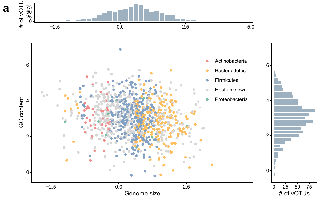
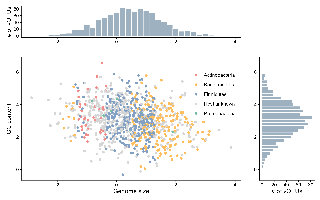
fix(scatter-hist-annot): clean public text and repair preview

diff --git a/modules/scatter-hist-annot/docs/doc-description.md b/modules/scatter-hist-annot/docs/doc-description.md
@@ -1,18 +1,16 @@
 # 分组散点直方图注释
 
-## Purpose
+用 ggplot2 + cowplot 拼出分组散点与边缘直方图。preview 由 organized.R 渲染；数据为 MASS::mvrnorm 模拟，不是论文结果。
 
-复现 KS 生信绘图课程包「021分组散点图+直方图注释」的绘图层。
+## 应用
 
-## Visual structure
+展示分组散点与边缘直方图组合。
 
-见 `preview.png` 与课程原图；未做出版级视觉审查。
+- 作为该图类型的 R 代码与布局参考。
+- 在确认前不作为论文结果或上游分析复现。
 
-## Recommended use
+## 数据
 
-本地查看该图类型的 ggplot2/R 实现；需要同类布局时可改数据后重跑 `code/organized.R`。
+脚本内 MASS::mvrnorm 模拟 1000 行两维点与五类分组，无外部文件。
 
-## Limitations
-
-- 示例数据来自课程包或脚本内模拟，不是原文分析复现。
-- 本地 Gallery 收录授权仅覆盖课程图代码与布局参考；科学结论与出版级视觉审查未做。
+仅提供绘图示例；上游分析与科学结论未验证。

diff --git a/modules/scatter-hist-annot/README.md b/modules/scatter-hist-annot/README.md
@@ -2,4 +2,20 @@
 
 用 ggplot2 + cowplot 拼出分组散点与边缘直方图。preview 由 organized.R 渲染；数据为 MASS::mvrnorm 模拟，不是论文结果。
 
-This module is an Open Figure Modules submission prepared from a Local Published release. SFL does not execute the code.
+## 应用
+
+展示分组散点与边缘直方图组合。
+
+- 作为该图类型的 R 代码与布局参考。
+- 在确认前不作为论文结果或上游分析复现。
+
+## 数据
+
+脚本内 MASS::mvrnorm 模拟 1000 行两维点与五类分组，无外部文件。
+
+仅提供绘图示例；上游分析与科学结论未验证。
+
+
+## 运行核验
+
+发布者已使用现有 Pixi R 环境执行本模块绘图入口并检查本次生成预览。仅演示绘图层，未验证上游分析或科学结论。

diff --git a/modules/scatter-hist-annot/description.md b/modules/scatter-hist-annot/description.md
@@ -1,16 +1,16 @@
 # 分组散点直方图注释
 
-## 需求描述
-
 用 ggplot2 + cowplot 拼出分组散点与边缘直方图。preview 由 organized.R 渲染；数据为 MASS::mvrnorm 模拟，不是论文结果。
 
-## 应用场景
+## 应用
 
 展示分组散点与边缘直方图组合。
 
 - 作为该图类型的 R 代码与布局参考。
 - 在确认前不作为论文结果或上游分析复现。
 
-## 数据特征
+## 数据
 
 脚本内 MASS::mvrnorm 模拟 1000 行两维点与五类分组，无外部文件。
+
+仅提供绘图示例；上游分析与科学结论未验证。
